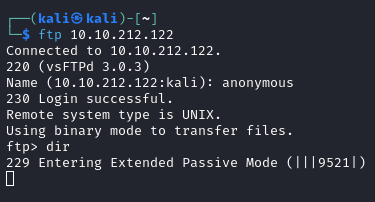
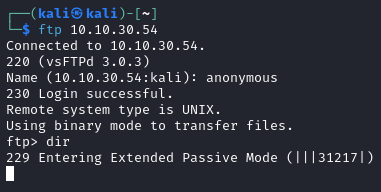
updated documentation
replaced pics 1-3, and added 4-13, added all documentation.

modified the title of picklerick to correct it

Changed region(s): [[0.0, 0.0312, 0.9973, 0.9375]]

diff --git a/TryHackMe/BountyHacker/bountyhacker.md b/TryHackMe/BountyHacker/bountyhacker.md
@@ -1,4 +1,4 @@
-# RootMe
+# Bounty Hacker
 
 ---
 
@@ -12,6 +12,9 @@ Tools Used:
 
 - Kali Linux
 - NMAP
+- ftp client
+- hydra
+- ssh client
 
 
 ---
@@ -24,6 +27,7 @@ Tools Used:
 
     Visiting the website we can't really see anything useful.
 
+<br>
 
 2.  anonymous ftp
    
@@ -33,11 +37,13 @@ Tools Used:
 
     ![](img/bountyhacker02.png)
 
-    After a while we get an error of a connection time out, and we get the result of the command:
+    After a while we get a connection time out error, and then the result of the dir command:
 
     ![](img/bountyhacker03.png)
 
     We can see 2 files `locks.txt` and `task.txt`, we'll download them and see what's inside.
+
+<br>
 
 3.  locks and task
 
@@ -48,8 +54,8 @@ Tools Used:
     And the file `task.txt` a couple of tasks and a name:
 
     ![](img/bountyhacker05.png)
-    
-    
+
+<br>
 
 4.  Hydra
    
@@ -65,13 +71,17 @@ Tools Used:
 
     ![](img/bountyhacker07.png)
 
-    As we can see the password for `lin` is ``.
+    As we can see the password for `lin` is `RedDr4gonSynd1cat3`.
+
+<br>
 
 5.  SSH login and first flag
 
     After getting the password for the user lin, we can see on the Desktop the file `user.txt`, that's the first flag:
 
     ![](img/bountyhacker08.png)
+
+<br>
 
 6.  root flag
 

diff --git a/TryHackMe/PickleRick/picklerick.md b/TryHackMe/PickleRick/picklerick.md
@@ -1,4 +1,4 @@
-# Simple CTF
+# Pickle Rick
 
 ---
 
